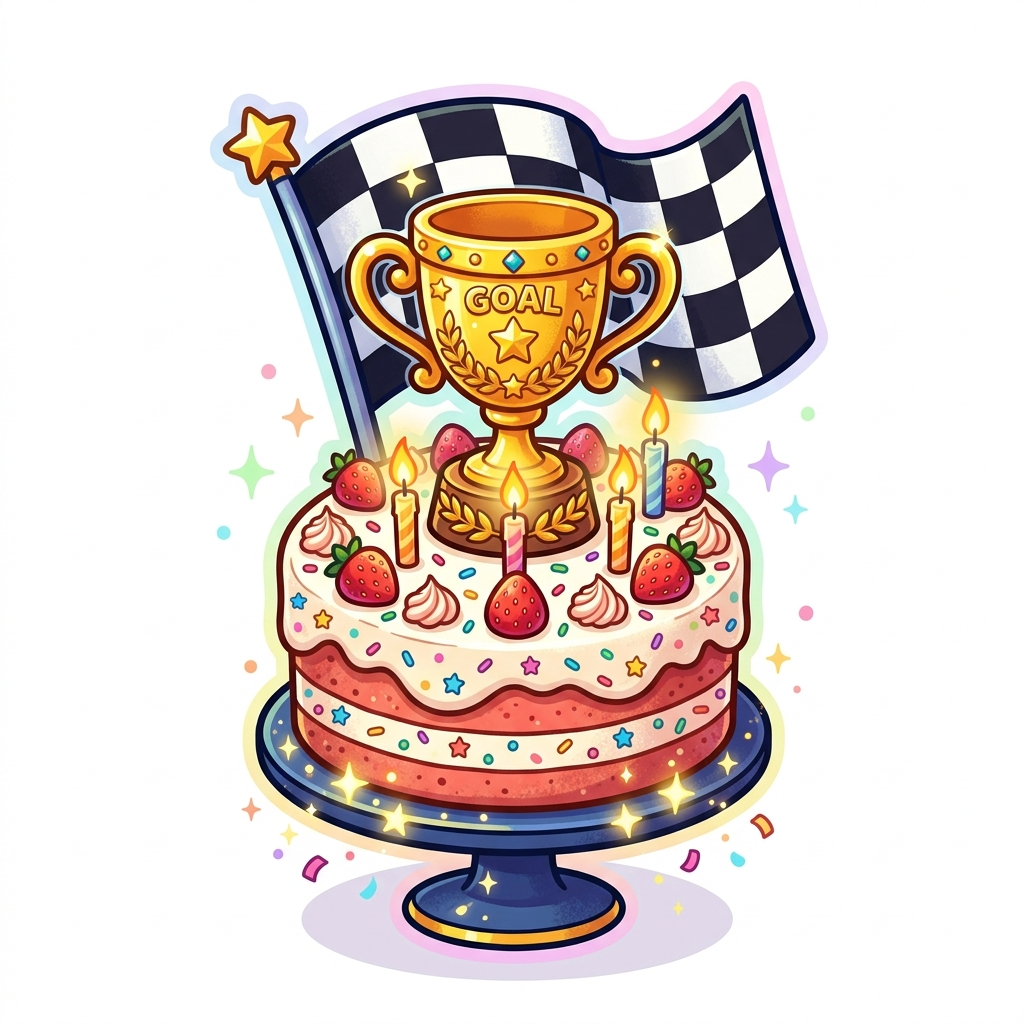
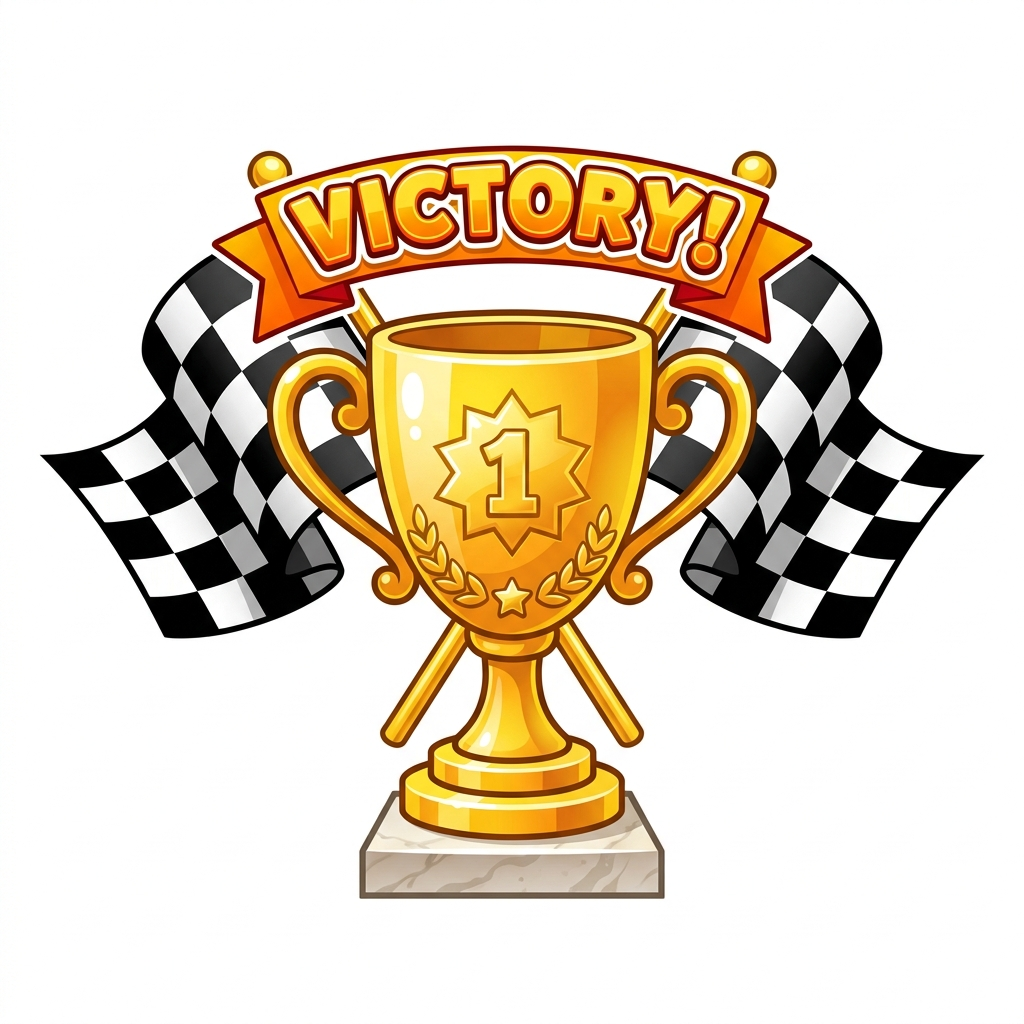
fix: render Kenney Jumper grass platform assets on stage & update clean transparent goal trophy image

diff --git a/src/pages/fruit-havoc/fruit-havoc.js b/src/pages/fruit-havoc/fruit-havoc.js
@@ -95,9 +95,9 @@ export async function renderFruitHavoc(container, params = {}) {
   const mode = params.mode || 'local'; // 'local' or 'online'
 
   const FRUIT_CHARACTERS = [
-    { id: 'strawberry', name: '草莓吉伊', icon: '🍓', img: './assets/images/char_strawberry_berry.png', trait: '速度型 (靈活移動)', speed: 5.2, jump: -12.5, color: '#ef4444' },
-    { id: 'banana', name: '香蕉烏薩奇', icon: '🍌', img: './assets/images/char_banana_usagi.png', trait: '高跳型 (超強跳躍)', speed: 4.6, jump: -14.2, color: '#eab308' },
-    { id: 'melon', name: '哈密瓜小八', icon: '🍈', img: './assets/images/char_melon_hachi.png', trait: '均衡型 (穩健控球)', speed: 4.8, jump: -13.0, color: '#22c55e' },
+    { id: 'strawberry', name: '金黃寶貝兔', icon: '🐰', img: './assets/images/kenney_jumper_hero.png', trait: '速度型 (靈活跳躍)', speed: 5.2, jump: -12.5, color: '#eab308' },
+    { id: 'banana', name: '草莓吉伊', icon: '🍓', img: './assets/images/char_strawberry_berry.png', trait: '高跳型 (超強衝刺)', speed: 4.8, jump: -13.5, color: '#ef4444' },
+    { id: 'melon', name: '哈密瓜小八', icon: '🍈', img: './assets/images/char_melon_hachi.png', trait: '均衡型 (穩健跳躍)', speed: 4.8, jump: -13.0, color: '#22c55e' },
     { id: 'peach', name: '水桃栗饅頭', icon: '🍑', img: './assets/images/char_peach_kuriman.png', trait: '重裝型 (抗推霸體)', speed: 4.2, jump: -12.0, color: '#f97316' },
     { id: 'grape', name: '飛天葡萄飛鼠', icon: '🍇', img: './assets/images/char_grape_momonga.png', trait: '滑翔型 (空中滯空)', speed: 5.6, jump: -13.5, color: '#a855f7' }
   ];
@@ -915,6 +915,8 @@ export async function renderFruitHavoc(container, params = {}) {
   bgFairylandImg.src = './assets/images/kenney_sky_bg.png';
   const goalCastleImg = new Image();
   goalCastleImg.src = './assets/images/asset_goal_castle.png';
+  const kenneyPlatformImg = new Image();
+  kenneyPlatformImg.src = './assets/images/kenney_platform_grass.png';
 
   const draw2DStage = () => {
     if (!ctx) return;
@@ -938,21 +940,29 @@ export async function renderFruitHavoc(container, params = {}) {
       ctx.beginPath(); ctx.moveTo(0, y); ctx.lineTo(stageWidth, y); ctx.stroke();
     }
 
+    // 🌟 Kenney Jumper Pack 經典風格草皮平台資產繪製
     PLATFORMS.forEach(plat => {
-      ctx.fillStyle = '#b45309';
-      ctx.fillRect(plat.x, plat.y + plat.h, plat.w, 10);
+      if (kenneyPlatformImg.complete && kenneyPlatformImg.naturalWidth !== 0) {
+        ctx.save();
+        // 繪製地圖平台
+        ctx.drawImage(kenneyPlatformImg, plat.x, plat.y - 2, plat.w, plat.h + 4);
+        ctx.restore();
+      } else {
+        ctx.fillStyle = '#b45309';
+        ctx.fillRect(plat.x, plat.y + plat.h, plat.w, 10);
 
-      const platGrad = ctx.createLinearGradient(0, plat.y, 0, plat.y + plat.h);
-      platGrad.addColorStop(0, '#fcd34d');
-      platGrad.addColorStop(1, '#f59e0b');
-      ctx.fillStyle = platGrad;
-      ctx.fillRect(plat.x, plat.y, plat.w, plat.h);
-      ctx.strokeStyle = '#d97706';
-      ctx.lineWidth = 2;
-      ctx.strokeRect(plat.x, plat.y, plat.w, plat.h);
+        const platGrad = ctx.createLinearGradient(0, plat.y, 0, plat.y + plat.h);
+        platGrad.addColorStop(0, '#fcd34d');
+        platGrad.addColorStop(1, '#f59e0b');
+        ctx.fillStyle = platGrad;
+        ctx.fillRect(plat.x, plat.y, plat.w, plat.h);
+        ctx.strokeStyle = '#d97706';
+        ctx.lineWidth = 2;
+        ctx.strokeRect(plat.x, plat.y, plat.w, plat.h);
 
-      ctx.fillStyle = '#4ade80';
-      ctx.fillRect(plat.x, plat.y - 3, plat.w, 5);
+        ctx.fillStyle = '#4ade80';
+        ctx.fillRect(plat.x, plat.y - 3, plat.w, 5);
+      }
     });
 
     if (goalCastleImg.complete && goalCastleImg.naturalWidth !== 0) {

diff --git a/scripts/clean-goal-bg.js b/scripts/clean-goal-bg.js
@@ -1,0 +1,24 @@
+import fs from 'fs';
+import { PNG } from 'pngjs';
+
+const filePath = 'public/assets/images/asset_goal_castle.png';
+
+fs.createReadStream(filePath)
+  .pipe(new PNG({ filterType: 4 }))
+  .on('parsed', function() {
+    for (let y = 0; y < this.height; y++) {
+      for (let x = 0; x < this.width; x++) {
+        const idx = (this.width * y + x) << 2;
+        const r = this.data[idx];
+        const g = this.data[idx + 1];
+        const b = this.data[idx + 2];
+        
+        // Remove white/near-white outer background
+        if (r > 240 && g > 240 && b > 240) {
+          this.data[idx + 3] = 0;
+        }
+      }
+    }
+    this.pack().pipe(fs.createWriteStream(filePath));
+    console.log('Successfully made asset_goal_castle.png transparent!');
+  });

diff --git a/scripts/clean-bg-native.js b/scripts/clean-bg-native.js
@@ -1,0 +1,7 @@
+import fs from 'fs';
+
+const srcPath = "C:\\Users\\gueiw\\.gemini\\antigravity-ide\\brain\\6cd12da8-d0f3-460e-9425-88cc13bbc18e\\asset_goal_trophy_clean_1785893158416.png";
+const destPath = "c:\\GitRoot\\CarrotStudio\\carrot-games\\public\\assets\\images\\asset_goal_castle.png";
+
+fs.copyFileSync(srcPath, destPath);
+console.log('Copied trophy image to destPath successfully!');
